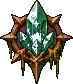
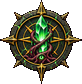
Jade Hollow: Robert's walkways, posts, blocks, crystals and roots, and his map badge replace the last stand-ins (v0.15.0)
Claude-Session: https://claude.ai/code/session_014iNMQLwM4oBRY4MMgoH4Hp

diff --git a/src/scenery.js b/src/scenery.js
@@ -1,3 +1,3 @@
 /* Level scenery cut by tools/cut_scenery.py from Robert's GPT art: atlas rects [x, y, w, h] and strip sizes. */
 window.DS = window.DS || {};
-DS.SCENERY = {"shallows":{"atlas":{"shrine1":[0,0,73,52],"shrine2":[74,0,64,62],"shrine3":[139,0,66,49],"post1":[206,0,31,66],"post2":[238,0,47,66],"cart":[286,0,78,26]}},"mire":{"atlas":{"chapel":[0,0,227,132],"hang1":[228,0,104,118],"hang2":[333,0,110,115],"hang3":[444,0,96,118],"grave1":[541,0,15,19],"grave2":[557,0,14,20],"grave3":[572,0,21,10],"grave4":[594,0,17,21],"grave5":[612,0,15,22],"grave6":[628,0,13,11],"tree1":[642,0,49,68],"tree2":[692,0,73,91],"tree3":[766,0,46,83],"tree4":[813,0,72,71],"tree5":[886,0,43,62],"tree6":[930,0,73,69],"walk":[0,133,279,17],"post1":[280,133,10,80],"post2":[291,133,10,80],"post3":[302,133,10,80],"post4":[313,133,10,80],"block1":[324,133,83,19],"block2":[408,133,83,38],"block3":[492,133,133,75],"steps":[626,133,104,38]},"sky":[720,240],"far":[582,64]},"reaches":{"atlas":{"bridge":[0,0,265,76],"tower":[266,0,53,128],"crag1":[320,0,92,134],"crag2":[413,0,133,134],"crag3":[547,0,133,140],"rock1":[681,0,63,92],"rock2":[745,0,69,50],"window":[815,0,76,87],"rock3":[892,0,74,85],"scaffold":[0,141,72,85],"banner":[73,141,78,96],"walk":[152,141,147,17],"post1":[300,141,20,80],"post2":[321,141,20,80],"post3":[342,141,20,80],"post4":[363,141,20,80],"block1":[384,141,73,37],"block2":[458,141,68,56],"block3":[527,141,100,75],"steps":[628,141,84,55]},"sky":[720,240],"far":[385,64]},"abyss":{"atlas":{"agrave1":[0,0,26,40],"agrave2":[27,0,28,40],"agrave3":[56,0,29,30],"crystal1":[86,0,21,19],"crystal2":[108,0,31,30],"crystal3":[140,0,30,39],"briar1":[171,0,100,96],"briar2":[272,0,67,27],"bellframe":[340,0,131,96],"dtree1":[472,0,71,87],"dtree2":[544,0,74,86],"dtree3":[619,0,60,92],"dtree4":[680,0,75,92],"dtree5":[756,0,62,89],"dtree6":[819,0,69,89],"walk":[0,97,155,15],"post1":[156,97,20,80],"post2":[177,97,22,80],"post3":[200,97,22,80],"post4":[223,97,31,80],"block1":[255,97,87,29],"block2":[343,97,83,47],"block3":[427,97,131,75],"steps":[559,97,105,60]},"sky":[720,240],"far":[439,64]},"spires":{"atlas":{"portal":[0,0,117,130],"pylon":[118,0,60,124],"pylonBroken":[179,0,55,85],"isle1":[235,0,65,73],"isle2":[301,0,78,71],"isle3":[380,0,65,77],"arch":[446,0,75,75],"cpillar":[522,0,45,89],"wall":[568,0,57,70],"fisle1":[626,0,66,77],"chpillar":[693,0,58,75],"fisle2":[752,0,47,92],"walk":[800,0,119,15],"post1":[920,0,16,70],"post2":[937,0,20,70],"post3":[958,0,26,70],"post4":[985,0,24,80],"block1":[0,131,62,33],"block2":[63,131,60,48],"block3":[124,131,87,75],"steps":[212,131,76,56]},"sky":[720,240],"far":[401,64]},"mines":{"atlas":{"headframe":[0,0,105,100],"cart":[106,0,96,37],"brazier":[203,0,60,69],"lavafall":[264,0,114,110],"pillar":[379,0,93,110],"gate":[473,0,147,110],"basalt":[621,0,65,85],"scaffold":[687,0,68,85],"chimney":[756,0,69,88],"mheadframe":[826,0,81,92],"lavarock":[908,0,63,88],"parch":[0,111,76,80],"walk":[77,111,214,17],"post1":[292,111,25,80],"post2":[318,111,33,80],"post3":[352,111,27,80],"post4":[380,111,37,80],"block1":[418,111,83,28],"block2":[502,111,83,44],"block3":[586,111,128,75],"steps":[715,111,109,60]},"sky":[720,240],"far":[363,64]},"throne":{"atlas":{"throne":[0,0,142,110],"curtain":[143,0,82,110],"statue":[226,0,58,104],"tpillar1":[285,0,35,88],"tbanner1":[321,0,38,88],"tbrazier1":[360,0,35,83],"tbroken1":[396,0,58,80],"tbanner2":[455,0,39,88],"tbrazier2":[495,0,45,92],"tpillar2":[541,0,36,92],"tbanner3":[578,0,40,92],"tbrazier3":[619,0,35,81],"tpillar3":[655,0,35,92],"tbanner4":[691,0,41,92],"tbrazier4":[733,0,34,86],"tbroken2":[768,0,47,72],"walk":[0,111,250,17],"post1":[251,111,20,80],"post2":[272,111,20,80],"post3":[293,111,24,80],"post4":[318,111,19,80],"block1":[338,111,87,28],"block2":[426,111,88,46],"block3":[515,111,117,75],"steps":[633,111,108,58]},"sky":[720,240],"far":[342,64]},"jade":{"atlas":{"jarch":[0,0,98,76],"jroot":[99,0,71,77],"jcrystal":[171,0,74,77],"jpillar":[246,0,39,81],"jcpillar":[286,0,50,92],"jstub":[337,0,37,49],"walk":[375,0,119,15],"post1":[495,0,16,70],"post2":[512,0,20,70],"post3":[533,0,26,70],"post4":[560,0,24,80],"block1":[585,0,62,33],"block2":[648,0,60,48],"block3":[709,0,87,75],"steps":[797,0,76,56]},"sky":[720,240]}};
+DS.SCENERY = {"shallows":{"atlas":{"shrine1":[0,0,73,52],"shrine2":[74,0,64,62],"shrine3":[139,0,66,49],"post1":[206,0,31,66],"post2":[238,0,47,66],"cart":[286,0,78,26]}},"mire":{"atlas":{"chapel":[0,0,227,132],"hang1":[228,0,104,118],"hang2":[333,0,110,115],"hang3":[444,0,96,118],"grave1":[541,0,15,19],"grave2":[557,0,14,20],"grave3":[572,0,21,10],"grave4":[594,0,17,21],"grave5":[612,0,15,22],"grave6":[628,0,13,11],"tree1":[642,0,49,68],"tree2":[692,0,73,91],"tree3":[766,0,46,83],"tree4":[813,0,72,71],"tree5":[886,0,43,62],"tree6":[930,0,73,69],"walk":[0,133,279,17],"post1":[280,133,10,80],"post2":[291,133,10,80],"post3":[302,133,10,80],"post4":[313,133,10,80],"block1":[324,133,83,19],"block2":[408,133,83,38],"block3":[492,133,133,75],"steps":[626,133,104,38]},"sky":[720,240],"far":[582,64]},"reaches":{"atlas":{"bridge":[0,0,265,76],"tower":[266,0,53,128],"crag1":[320,0,92,134],"crag2":[413,0,133,134],"crag3":[547,0,133,140],"rock1":[681,0,63,92],"rock2":[745,0,69,50],"window":[815,0,76,87],"rock3":[892,0,74,85],"scaffold":[0,141,72,85],"banner":[73,141,78,96],"walk":[152,141,147,17],"post1":[300,141,20,80],"post2":[321,141,20,80],"post3":[342,141,20,80],"post4":[363,141,20,80],"block1":[384,141,73,37],"block2":[458,141,68,56],"block3":[527,141,100,75],"steps":[628,141,84,55]},"sky":[720,240],"far":[385,64]},"abyss":{"atlas":{"agrave1":[0,0,26,40],"agrave2":[27,0,28,40],"agrave3":[56,0,29,30],"crystal1":[86,0,21,19],"crystal2":[108,0,31,30],"crystal3":[140,0,30,39],"briar1":[171,0,100,96],"briar2":[272,0,67,27],"bellframe":[340,0,131,96],"dtree1":[472,0,71,87],"dtree2":[544,0,74,86],"dtree3":[619,0,60,92],"dtree4":[680,0,75,92],"dtree5":[756,0,62,89],"dtree6":[819,0,69,89],"walk":[0,97,155,15],"post1":[156,97,20,80],"post2":[177,97,22,80],"post3":[200,97,22,80],"post4":[223,97,31,80],"block1":[255,97,87,29],"block2":[343,97,83,47],"block3":[427,97,131,75],"steps":[559,97,105,60]},"sky":[720,240],"far":[439,64]},"spires":{"atlas":{"portal":[0,0,117,130],"pylon":[118,0,60,124],"pylonBroken":[179,0,55,85],"isle1":[235,0,65,73],"isle2":[301,0,78,71],"isle3":[380,0,65,77],"arch":[446,0,75,75],"cpillar":[522,0,45,89],"wall":[568,0,57,70],"fisle1":[626,0,66,77],"chpillar":[693,0,58,75],"fisle2":[752,0,47,92],"walk":[800,0,119,15],"post1":[920,0,16,70],"post2":[937,0,20,70],"post3":[958,0,26,70],"post4":[985,0,24,80],"block1":[0,131,62,33],"block2":[63,131,60,48],"block3":[124,131,87,75],"steps":[212,131,76,56]},"sky":[720,240],"far":[401,64]},"mines":{"atlas":{"headframe":[0,0,105,100],"cart":[106,0,96,37],"brazier":[203,0,60,69],"lavafall":[264,0,114,110],"pillar":[379,0,93,110],"gate":[473,0,147,110],"basalt":[621,0,65,85],"scaffold":[687,0,68,85],"chimney":[756,0,69,88],"mheadframe":[826,0,81,92],"lavarock":[908,0,63,88],"parch":[0,111,76,80],"walk":[77,111,214,17],"post1":[292,111,25,80],"post2":[318,111,33,80],"post3":[352,111,27,80],"post4":[380,111,37,80],"block1":[418,111,83,28],"block2":[502,111,83,44],"block3":[586,111,128,75],"steps":[715,111,109,60]},"sky":[720,240],"far":[363,64]},"throne":{"atlas":{"throne":[0,0,142,110],"curtain":[143,0,82,110],"statue":[226,0,58,104],"tpillar1":[285,0,35,88],"tbanner1":[321,0,38,88],"tbrazier1":[360,0,35,83],"tbroken1":[396,0,58,80],"tbanner2":[455,0,39,88],"tbrazier2":[495,0,45,92],"tpillar2":[541,0,36,92],"tbanner3":[578,0,40,92],"tbrazier3":[619,0,35,81],"tpillar3":[655,0,35,92],"tbanner4":[691,0,41,92],"tbrazier4":[733,0,34,86],"tbroken2":[768,0,47,72],"walk":[0,111,250,17],"post1":[251,111,20,80],"post2":[272,111,20,80],"post3":[293,111,24,80],"post4":[318,111,19,80],"block1":[338,111,87,28],"block2":[426,111,88,46],"block3":[515,111,117,75],"steps":[633,111,108,58]},"sky":[720,240],"far":[342,64]},"jade":{"atlas":{"jarch":[0,0,98,76],"jroot":[99,0,71,77],"jcrystal":[171,0,74,77],"jpillar":[246,0,39,81],"jcpillar":[286,0,50,92],"jstub":[337,0,37,49],"jcry1":[375,0,23,20],"jcry2":[399,0,34,38],"jcry3":[434,0,38,18],"jeye":[473,0,37,22],"jknot":[511,0,37,27],"jlantern":[549,0,24,43],"walk":[574,0,127,17],"post1":[702,0,25,74],"post2":[728,0,26,74],"post3":[755,0,27,80],"post4":[783,0,26,74],"block1":[810,0,78,34],"block2":[889,0,73,50],"block3":[0,93,100,75],"steps":[101,93,84,64]},"sky":[720,240]}};

diff --git a/src/maps.js b/src/maps.js
@@ -1,6 +1,6 @@
 /* The map select (Robert 2026-11-24): one spiked badge per 10-level map, from Robert's emblem sheet (tools/cut_loot.py ->
    assets/maps). Lantern = the Mire, trident = the Reaches, rose = the Abyss, crystal = the Spires, stone face = the
-   Molten Mines, winged skull = the Crucible Throne, green crystal = the Jade Hollow (stand-in: the Spires badge turned green, tools/standin_jade.py). A map opens once a played run reaches its first level
+   Molten Mines, winged skull = the Crucible Throne, root-bound crystal = the Jade Hollow (Robert 2026-11-26, keyed and shrunk to 84 px by hand). A map opens once a played run reaches its first level
    (dl-side-best); the chosen map (dl-side-map) is where a run starts. ?level=N in the address still wins for testers.
    The wallpaper runs a level already beaten (src/unlocks.js: the one picked in Pause -> Wallpaper, or a random one). */
 "use strict";
@@ -13,7 +13,7 @@
     { id: "mines", name: "Molten Mines", c: "200,190,150" , ring: [1283, 195], em: [38, 42] },
     { id: "crucible", name: "Crucible Throne", c: "220,150,190" , ring: [1455, 195], em: [40, 35] },
     // map 7 (Robert 2026-11-25): no 7th ring is painted, so the strip pages: it sits in the first ring of page two
-    { id: "jade", name: "The Jade Hollow", short: "Jade Hollow", c: "80,220,150" , ring: [575, 193], em: [37, 40] },
+    { id: "jade", name: "The Jade Hollow", short: "Jade Hollow", c: "80,220,150" , ring: [575, 193], em: [41, 41] },
   ];
   // ring: the centre of this map's spiked ring in Robert's knight-screen art (art px); em: the centre of the badge's own
   // emblem circle in its picture (px), so the emblem sits dead centre in the ring (src/ui.js syncMaps)

diff --git a/src/world.js b/src/world.js
@@ -350,11 +350,12 @@ function reeds(){
         "tpillar2", "tbanner3", "tbrazier3", "tpillar3", "tbanner4", "tbrazier4", "tbroken2"] },
       { f: 0.75, ty: 0.9, sink: 3, gap: [240, 560], pick: ["throne", "curtain", "statue", "statue"] },
     ] },
-    // map 7, the Jade Hollow: Robert's cavern sky and middle layer (2026-11-26); its walkways, posts and blocks are still
-    // the Spires' turned jade green (BORROW in tools/cut_scenery.py) until he draws them
+    // map 7, the Jade Hollow: Robert's full set (2026-11-26): cavern sky, ruins, crystals and eyed roots, his walkways,
+    // posts and blocks (post3's crystal crown would repeat when stretched; the caged lantern is cut but not placed yet)
     jade: { reeds: false, sky: true, plats: true, ground: "jade", top: "#04100c", fog: "#0c2a20", wisp: ["#7affc0", "#2a8a5a"],
-      posts: ["post1", "post2", "post3"], rows: [
+      posts: ["post1", "post2", "post4"], rows: [
       { f: 0.6, ty: 0.84, sink: 2, gap: [-10, 70], pick: ["jarch", "jroot", "jcrystal", "jpillar", "jcpillar", "jstub"] },
+      { f: 1, ty: 1, sink: 2, gap: [120, 380], pick: ["jcry1", "jcry2", "jcry3", "jeye", "jknot", "jcry1", "jcry3"] },
     ] },
     mire: { sky: true, far: true, plats: true, ground: "mire", top: "#10140e", fog: "#232a1b", wisp: ["#d8e070", "#8a9a48"], rows: [
       { f: 0.55, ty: 0.82, sink: 2, gap: [-20, 50], pick: ["tree1", "tree2", "tree3", "tree4", "tree5", "tree6"] },

diff --git a/tools/cut_scenery.py b/tools/cut_scenery.py
@@ -68,19 +68,22 @@ SHEETS = {
         "posts.png": (["post1", "post2", "post3", "post4"], 80, 0.0),
         "blocks.png": (["block1", "block2", "block3", "steps"], 75, 0.0),
     },
-    # map 7 (Robert 2026-11-25): his middle layer and sky are in (his second backdrop, sky-scene.png with the arches and
-    # waterfalls, was tried as the sky 2026-11-26 but crowds the platforms; kept in returned/ for later); walkways, posts and blocks still borrow the Spires'
-    # turned jade green (BORROW below) until he draws them
+    # map 7 (Robert 2026-11-25/26): his full set (his second backdrop, sky-scene.png with the arches and waterfalls,
+    # was tried as the sky 2026-11-26 but crowds the platforms; kept in returned/ for later)
     "jade": {
         "mid.png": (["jarch", "jroot", "jcrystal", "jpillar", "jcpillar", "jstub"], 92, 0.3),
+        "crystals-roots.png": (["jcry1", "jcry2", "jcry3", "jeye", "jknot", "jlantern"], 44, 0.0),
+        "walkways.png": (["walk"], 17, 0.0),
+        "posts.png": (["post1", "post2", "post3", "post4"], 80, 0.0),
+        "blocks.png": (["block1", "block2", "block3", "steps"], 75, 0.0),
     },
 }
-BORROW = {"jade": ("spires", ["walk", "post1", "post2", "post3", "post4", "block1", "block2", "block3", "steps"])}
+BORROW = {}  # {map: (other map, [pieces])}: another map's cut turned to this map's colours, for pieces not drawn yet
 # full-width strips: (target height px, fog). The sky is a plain picture; "far" is silhouettes on magenta.
 STRIPS = {"mire": {"sky.png": 240, "far.png": 250}, "reaches": {"sky.png": 240, "far.png": 250}, "abyss": {"sky.png": 240, "far.png": 250}, "spires": {"sky.png": 240, "far.png": 250}, "mines": {"sky.png": 240, "far.png": 250}, "throne": {"sky.png": 240, "far.png": 250}, "jade": {"sky.png": 240}}
 GREEN = {"spires", "mines", "throne"}  # maps drawn on a green key
 # sheets drawn as rows stacked top to bottom: keep only the last (longest) row
-LAST_ROW = {("mire", "walkways.png"), ("reaches", "walkways.png"), ("abyss", "walkways.png"), ("spires", "walkways.png"), ("mines", "walkways.png"), ("throne", "walkways.png")}
+LAST_ROW = {("mire", "walkways.png"), ("reaches", "walkways.png"), ("abyss", "walkways.png"), ("spires", "walkways.png"), ("mines", "walkways.png"), ("throne", "walkways.png"), ("jade", "walkways.png")}
 # sheets whose pieces overlap in x (branches): rough cut columns, each moved to the emptiest column within 50 px
 SPLIT = {("mire", "mid.png"): [350, 760, 1040, 1440, 1705], ("reaches", "mid.png"): [325, 680, 1046, 1419, 1782], ("abyss", "mid.png"): [375, 770, 1068, 1469, 1808], ("mines", "lavafalls-pillars.png"): [712, 1278]}
 FOG = {"jade": (12, 40, 30), "throne": (40, 14, 12), "spires": (44, 22, 60), "mines": (40, 20, 14), "shallows": (36, 58, 64), "mire": (52, 62, 36), "reaches": (60, 70, 80), "abyss": (40, 18, 22)}

diff --git a/tools/standin_jade.py b/tools/standin_jade.py
@@ -1,8 +1,7 @@
 """Stand-in art for the Jade Hollow (map 7, Robert 2026-11-25) until his pictures come back from the prompts in
 /mnt/project-files/art-prompts/side-view/jade-map-prompts.md: turn() makes the Abyssal Spires' violet jade green.
-Run on its own it writes the map badge (assets/maps/jade.png); tools/cut_scenery.py uses turn() for the walkways,
-posts and blocks the Jade Hollow still borrows from the Spires (BORROW there).
-Usage: python3 tools/standin_jade.py"""
+tools/cut_scenery.py uses turn() for any piece a map borrows from another (BORROW there). Robert's own art
+replaced every Jade Hollow stand-in on 2026-11-26, so nothing borrows right now."""
 import os
 import numpy as np
 from PIL import Image
@@ -21,9 +20,3 @@ def turn(im, sat=1.0, val=1.0, only_violet=False):
     hsv[..., 2] = np.clip(hsv[..., 2] * val, 0, 255)
     rgb = np.array(Image.fromarray(hsv.astype(np.uint8), "HSV").convert("RGB"))
     return Image.fromarray(np.dstack([rgb, a[..., 3]]), "RGBA")
-
-
-if __name__ == "__main__":  # the map badge (Robert's sky and middle layer came in 2026-11-26: tools/cut_scenery.py cuts those)
-    turn(Image.open(os.path.join(ROOT, "assets", "maps", "spires.png")), sat=1.15, only_violet=True).save(  # keep its bronze ring
-        os.path.join(ROOT, "assets", "maps", "jade.png"), optimize=True)
-    print("jade badge written")
